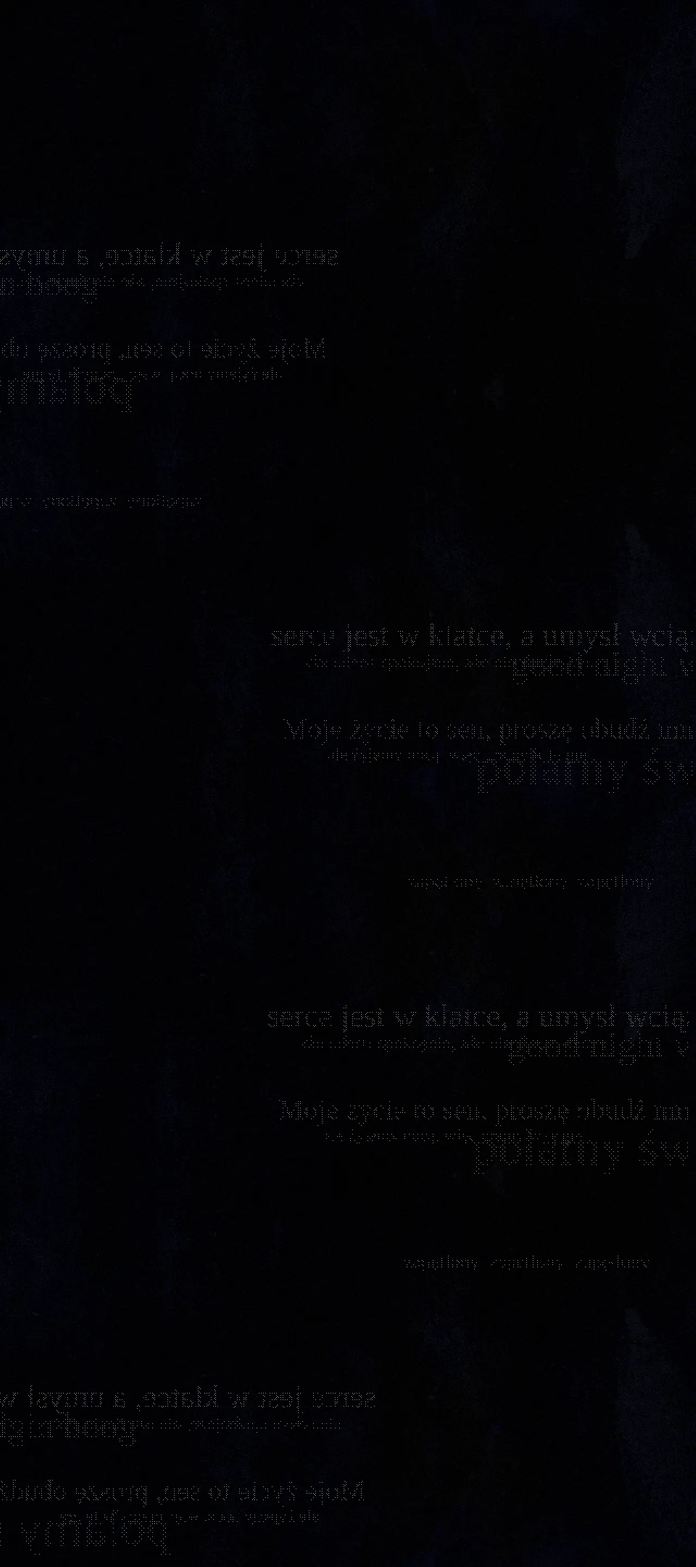
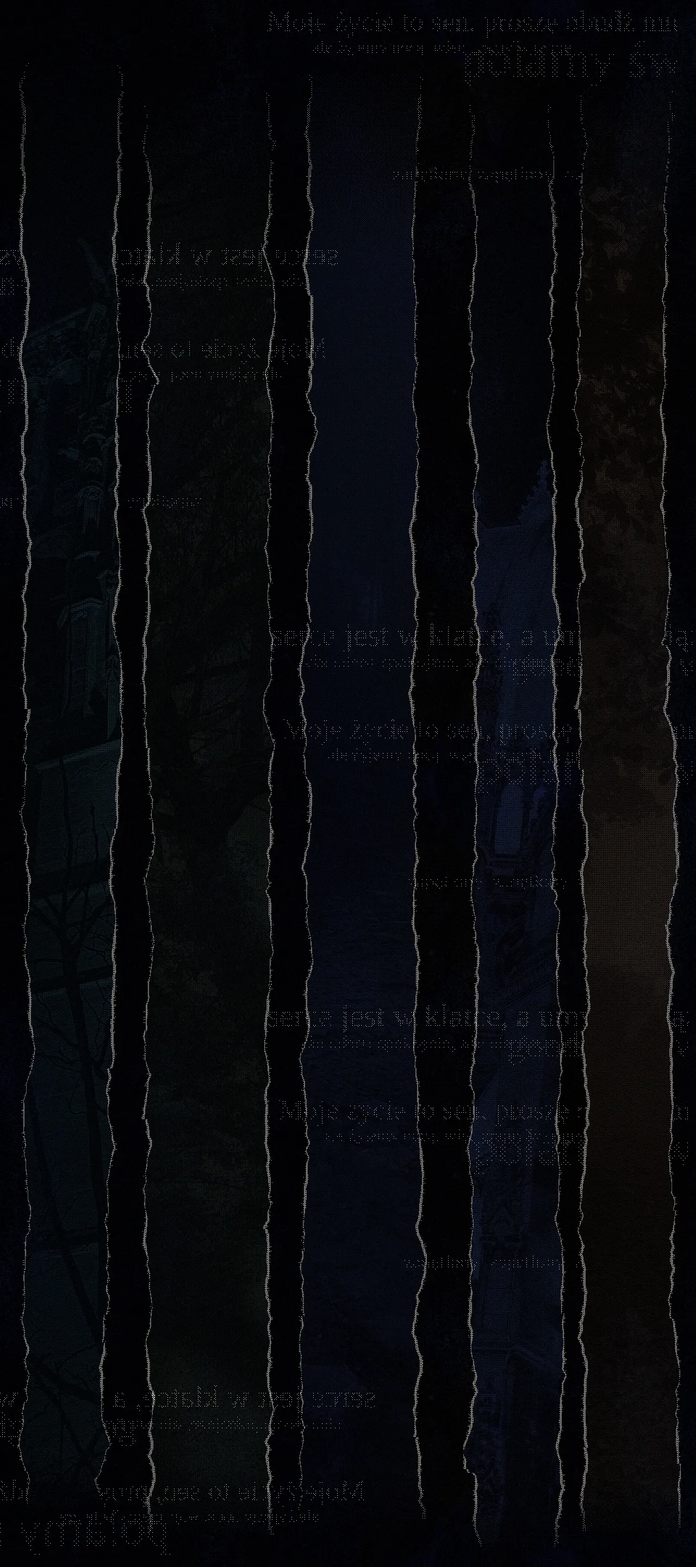
Krzyk: płynniejsze schodzenie paska zdjęć przez całą długość strony
- paski zdjęć natury rozpuszczają się ditherem ku końcowi zamiast urywać się, schodzą przez całą długość strony
- więcej pasków o różnej długości, środkowy kafel z blado ciągnącymi się paskami, bez szwu
- krótszy pusty dół strony

Claude-Session: https://claude.ai/code/session_01XYkKRxVWxhQVw3hCszqGrr

diff --git a/src/app/globals.css b/src/app/globals.css
@@ -134,15 +134,15 @@ button{-webkit-user-select:none;user-select:none}
 
 /* Krzyk: tło w trzech warstwach (góra: kolaż z rozdartym dołem i paski zdjęć natury schodzące w dół, środek: ciemne tło z tekstem powtarzane pionowo,
    dół: rozpuszczenie w czerń); wymiary liczone od szerokości strony (cqw), bo obrazy skalują się do 100% szerokości */
-.sec.krzyk{max-width:none;padding:0;position:relative;container-type:inline-size;--toph:225cqw;--pad:60cqw;background:#04050a;min-height:100svh;overflow-x:clip}
+.sec.krzyk{max-width:none;padding:0;position:relative;container-type:inline-size;--toph:337.5cqw;--pad:60cqw;background:#04050a;min-height:100svh;overflow-x:clip}
 .k-bgs{position:absolute;inset:0;pointer-events:none;
   background-image:var(--bt),var(--bm);background-repeat:no-repeat,repeat-y;
   background-position:top center,center var(--toph);background-size:100% auto}
-.k-foot{position:relative;z-index:1;height:55cqw;margin-top:12cqw;background:var(--bb) center bottom/100% 100% no-repeat;pointer-events:none}
+.k-foot{position:relative;z-index:1;height:55cqw;margin-top:-10cqw;background:var(--bb) center bottom/100% 100% no-repeat;pointer-events:none}
 .k-body{position:relative;z-index:2;width:84%;margin:0 auto;padding:var(--pad) 0 0}
 .k-body :is(p,h1,h2,.k-lv){text-shadow:0 0 6px #000,0 0 14px #000,1px 1px 0 #000}
 @media (max-width:700px){
-  .sec.krzyk{--toph:337.5cqw;--pad:93cqw}
+  .sec.krzyk{--toph:450cqw;--pad:93cqw}
   .k-bgs{background-image:var(--btp),var(--bmp)}
   .k-foot{background-image:var(--bbp)}
   .k-body{width:92%}
